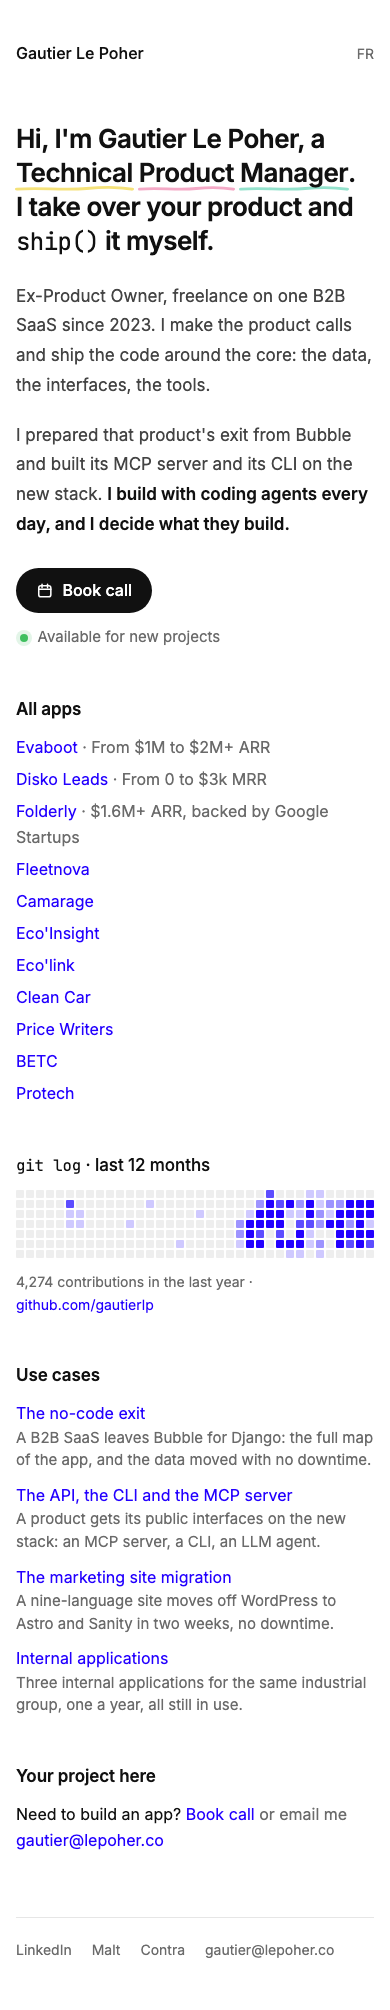
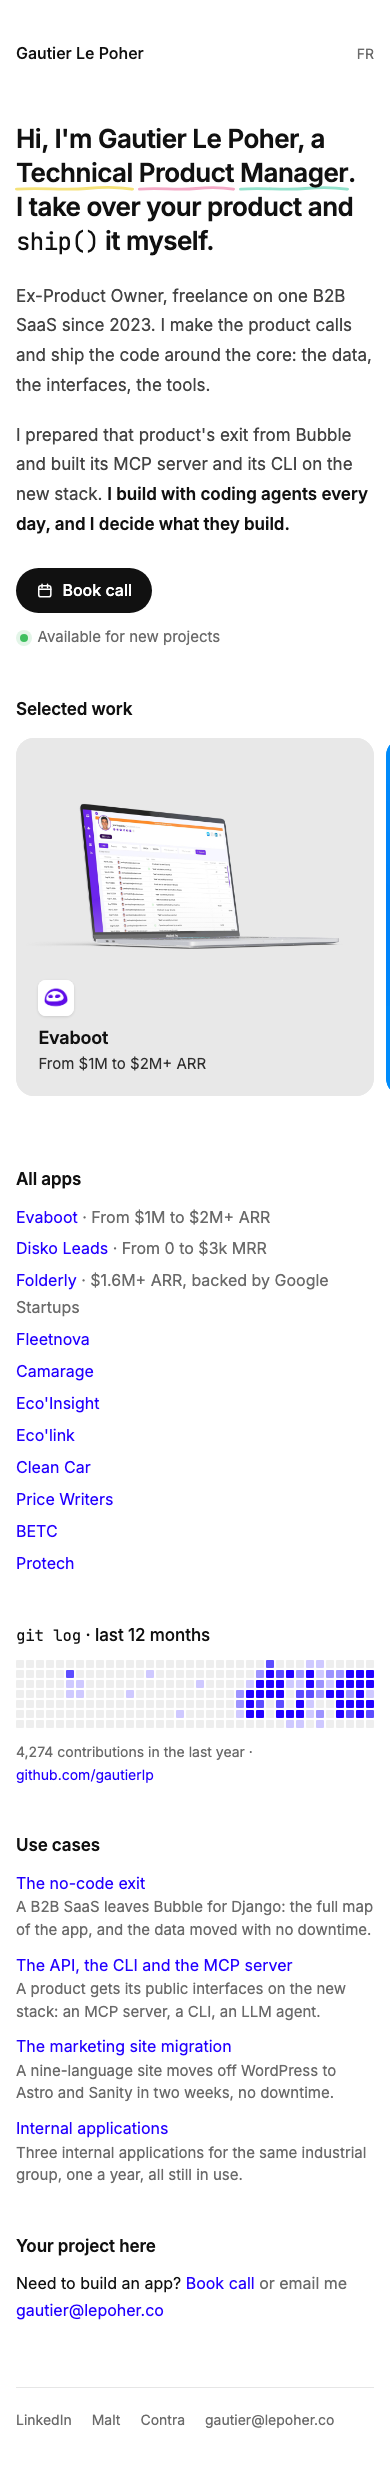
feat(design): selected work cards after plud.net
The three featured projects as square cards in a sideways row wider
than the column: screenshot on top, logo tile, name and result. The
card takes the background colour of its screenshot. No script.

diff --git a/src/styles/global.css b/src/styles/global.css
@@ -11,6 +11,7 @@
 }
 *, *::before, *::after { box-sizing: border-box; }
 html { -webkit-text-size-adjust: 100%; }
+html, body { overflow-x: clip; }
 body { margin: 0; background: var(--bg); color: var(--ink); font-family: var(--font); font-size: 1rem; line-height: 1.65; overflow-wrap: break-word; }
 h1, h2, h3, p, ul, figure, blockquote { margin: 0; padding: 0; }
 ul { list-style: none; }
@@ -66,6 +67,25 @@ h1, h2, h3 { font-size: 1.0625rem; font-weight: 600; line-height: 1.4; letter-sp
 /* Plain list: one link per line */
 .plainlist > li + li { margin-top: 0.35rem; }
 .plainlist p { font-size: 0.9375rem; line-height: 1.5; margin-bottom: 0.65rem; }
+
+/* Selected work: square cards in a row that scrolls sideways, wider than the column, after plud.net. */
+.work { width: 100vw; margin-left: calc(50% - 50vw); }
+.work h2 { max-width: var(--column); margin: 0 auto; padding: 0 1rem; }
+.work__track { --card: min(calc(var(--column) - 2rem), calc(100vw - 2rem)); --edge: calc((100vw - var(--card)) / 2);
+  display: flex; gap: clamp(0.75rem, 2.5vw, 2.5rem); padding: 1rem var(--edge) 1.5rem; overflow-x: auto;
+  scroll-snap-type: x mandatory; scroll-padding-inline: var(--edge); overscroll-behavior-x: contain; scrollbar-width: none; }
+.work__track::-webkit-scrollbar { display: none; }
+.work__slide { flex: 0 0 var(--card); scroll-snap-align: start; }
+.card { position: relative; display: block; aspect-ratio: 1; overflow: hidden; isolation: isolate; border-radius: calc(var(--card) * 0.05);
+  background: var(--card-bg); color: var(--card-fg); transition: transform 0.5s ease, box-shadow 0.5s ease; }
+.card:hover { text-decoration: none; transform: translateY(-3px) scale(1.012); box-shadow: 0 18px 40px -18px rgba(0, 0, 0, 0.35); }
+.card::before { content: ""; position: absolute; inset: 45% 0 0; z-index: 1; background: linear-gradient(to bottom, transparent, var(--card-bg) 70%); }
+.card__media { position: absolute; top: 0; left: 0; width: 100%; height: auto; }
+.card__copy { position: absolute; left: calc(var(--card) * 0.0625); bottom: calc(var(--card) * 0.0625); right: calc(var(--card) * 0.0625); z-index: 2; display: flex; flex-direction: column; align-items: flex-start; }
+.card__logo { width: calc(var(--card) * 0.085); height: auto; min-width: 2.25rem; margin-bottom: calc(var(--card) * 0.03); border-radius: 22%; background: #ffffff; box-shadow: 0 1px 3px rgba(0, 0, 0, 0.12); }
+.card__name { font-size: max(1.125rem, calc(var(--card) * 0.0375)); font-weight: 600; letter-spacing: -0.01em; line-height: 1.25; }
+.card__tagline { margin-top: calc(var(--card) * 0.0125); font-size: max(0.9375rem, calc(var(--card) * 0.028)); line-height: 1.3; opacity: 0.85; }
+@media (prefers-reduced-motion: reduce) { .card, .card:hover { transition: none; transform: none; } }
 
 /* GitHub contribution graph */
 .gh h2 { font-weight: 500; }

diff --git a/src/i18n/ui.ts b/src/i18n/ui.ts
@@ -16,6 +16,7 @@ const en = {
   "hero.book": "Book call",
   "hero.available": "Available for new projects",
   "case.fullStory": "Full story",
+  "section.selectedWork": "Selected work",
   "section.useCases": "Use cases",
   "section.allApps": "All apps",
   "section.yourProject": "Your project here",
@@ -48,6 +49,7 @@ const fr: Partial<Record<keyof typeof en, string>> = {
   "hero.book": "Réserver un appel",
   "hero.available": "Disponible pour de nouveaux projets",
   "case.fullStory": "Lire l'histoire",
+  "section.selectedWork": "Projets phares",
   "section.useCases": "Cas d'usage",
   "section.allApps": "Toutes les apps",
   "section.yourProject": "Votre projet ici",

diff --git a/docs/superpowers/reports/design-plud.md b/docs/superpowers/reports/design-plud.md
@@ -22,6 +22,7 @@ At 390px, `document.documentElement.scrollWidth` is 390 on both pages, so there 
 - `src/components/PlainList.astro`: new. One link per line, an optional grey note after the name, an optional grey summary under it.
 - `src/components/HomePage.astro`: order is now hero, all 11 projects (PlainList, result and label in grey when they exist), GitHub graph, the 4 use cases (PlainList with summaries), call to action. FeaturedCase, LogoGrid and NumberList are no longer used anywhere but the files stay.
 - `src/components/Hero.astro`: rebuilt on the plud.net hero after review. A two-line headline ("Hi, I'm Gautier Le Poher, a Technical Product Manager." then "I take over your product and ship() it myself."), each word of the role underlined with a hand-drawn stroke (yellow, pink, green), two grey paragraphs with the last sentence in bold, then a black "Book call" pill and a green "Available for new projects" dot. The paragraphs are the lepoher.co hero text from `positioning.md` in the `freelance` repository; the bold sentence and the French version are new and need a read. The old `hero.line2.*` and `hero.email` strings are gone from `ui.ts`, replaced by `hero.hi`, `hero.role`, `hero.p1`, `hero.p2`, `hero.p2.strong` and `hero.available`.
+- `src/components/WorkCarousel.astro`: new, after review, on the plud.net "Selected work" row. The three featured projects (Evaboot, Disko Leads, Folderly) as square cards in a row wider than the column that scrolls sideways and snaps to each card. Each card has the first still screenshot at the top, the logo on a small white tile (the PNG logos have a white background), the name, and the result as tagline. The card colour is the background colour of its screenshot, set in a small table in the component, so the image runs into the card. No script: the row scrolls with a trackpad, shift and the wheel, a finger, or the Tab key. plud.net also lets you drag it with the mouse, which needs JavaScript. The plain list of all 11 apps stays under it. New string: `section.selectedWork` ("Selected work", "Projets phares").
 - `src/components/CallToAction.astro`: heading plus one line with the Calendly link and the e-mail.
 - `src/components/GitHubGraph.astro`: only the wrapper class changed. Cells are 8px (were 10px).
 - `src/components/ProjectPage.astro`, `UseCasePage.astro`: same markup order, plain heading block (name, result, client in grey), links as text, images at column width with no frame, the quote with a thin left rule, related lists through PlainList.
@@ -29,7 +30,7 @@ At 390px, `document.documentElement.scrollWidth` is 390 on both pages, so there 
 
 ## Tests
 
-`GITHUB_TOKEN=$(gh auth token) npm test`: 6 of 6 unit tests pass and 19 of 19 site tests pass before the change. After it, 6 of 6 and 20 of 20: one test was added for the new hero (greeting, three marked words, availability line, booking button, French availability line). No existing test was edited.
+`GITHUB_TOKEN=$(gh auth token) npm test`: 6 of 6 unit tests pass and 19 of 19 site tests pass before the change. After it, 6 of 6 and 21 of 21: two tests were added, one for the new hero (greeting, three marked words, availability line, booking button, French availability line) and one for the three cards and their order, in English and French. No existing test was edited.
 
 ## To compare
 
